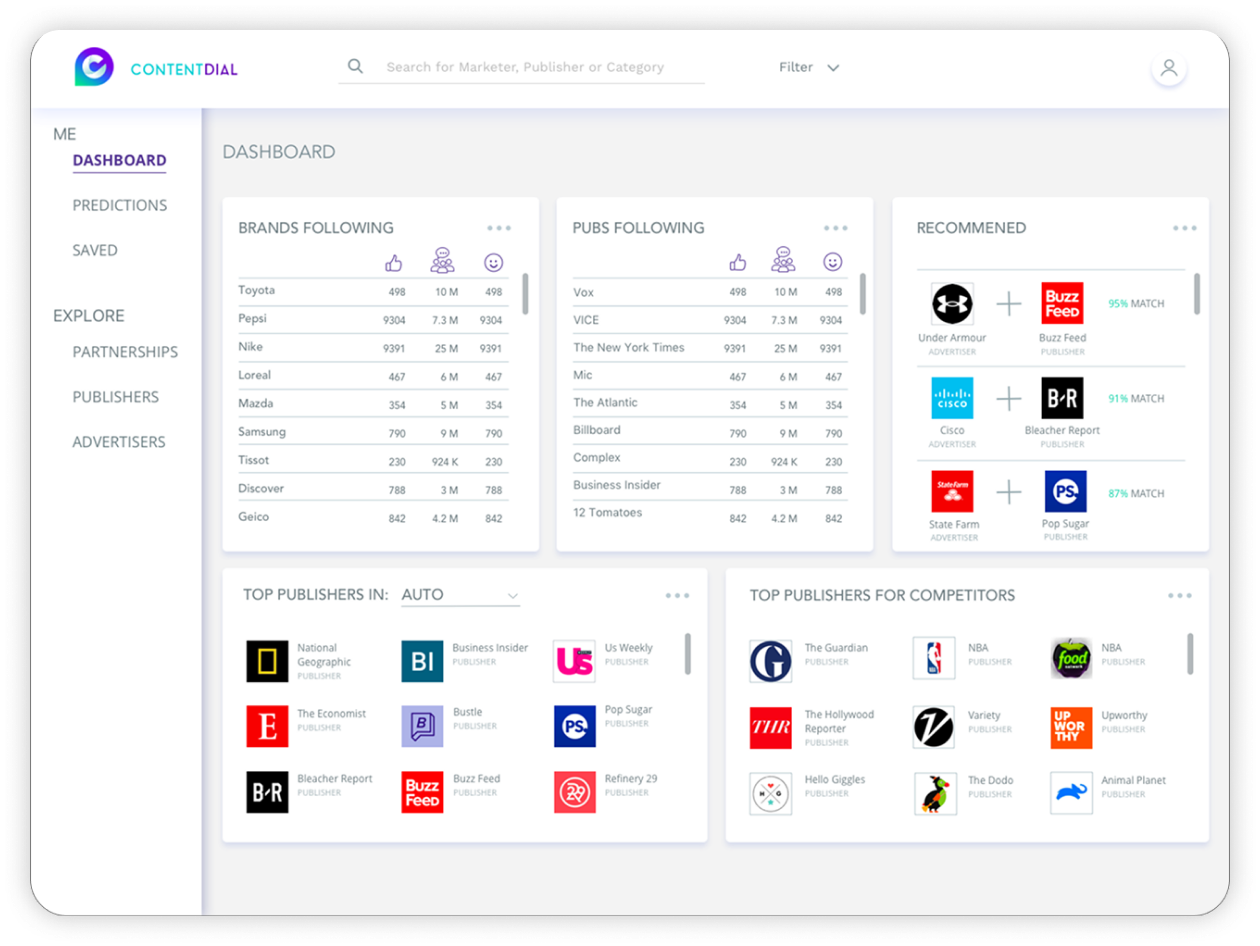
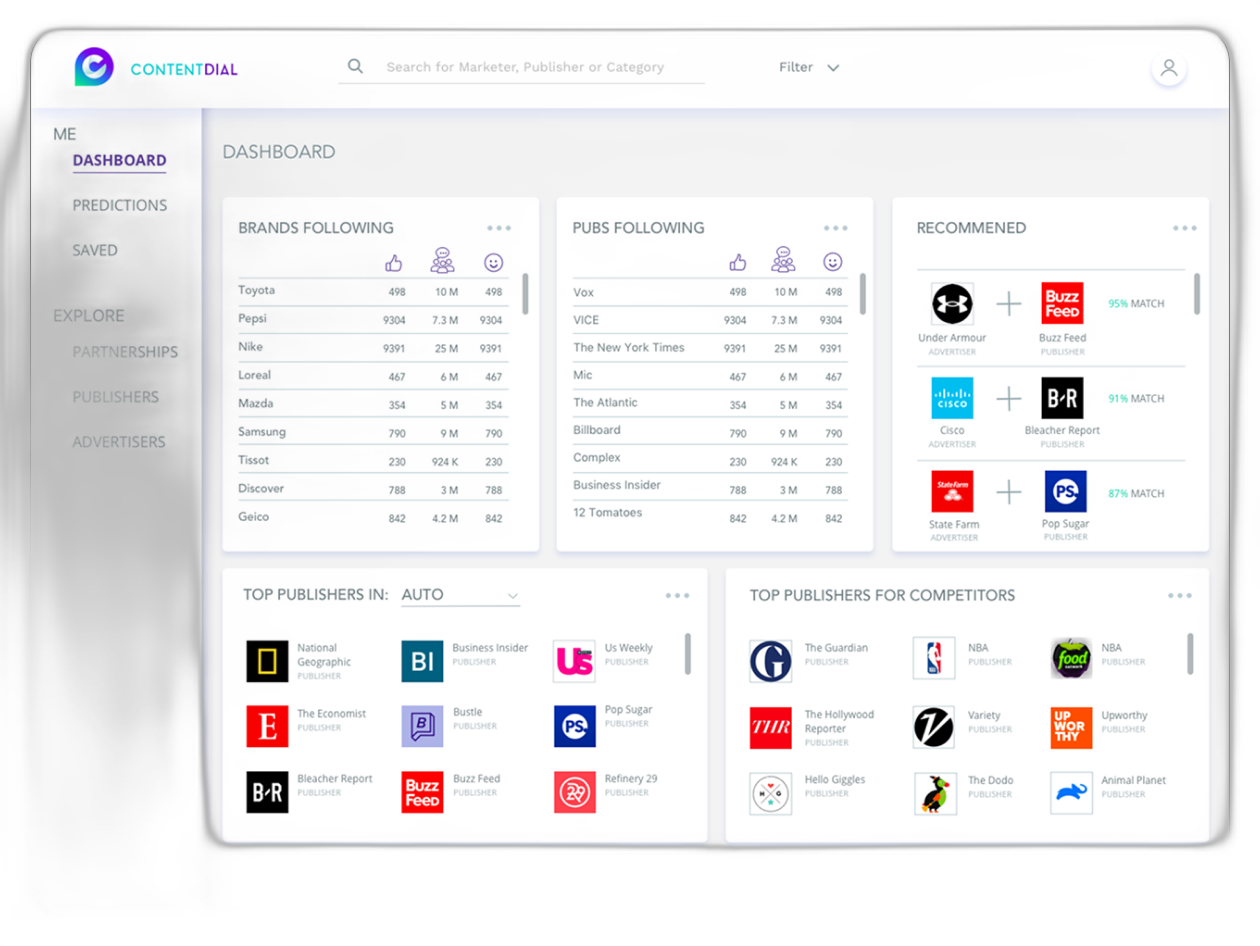
Fix ContentDial image cropping and double backgrounds
- Research image: remove fixed aspect ratio so full image shows without top crop
- Strategy image: remove fixed aspect ratio so Before/After diagram isn't side-cropped
- Key Solutions screens: strip Figma white backgrounds via rembg, switch wrapper
  divs to drop-shadow on img elements to eliminate double background effect

Changed region(s): [[0.0, 0.0307, 0.9905, 0.981], [0.4333, 0.0307, 0.4952, 0.0613], [0.031, 0.0307, 0.0619, 0.0613]]

diff --git a/src/app/contentdial/page.tsx b/src/app/contentdial/page.tsx
@@ -228,10 +228,8 @@ export default function ContentDial() {
             </InsightCard>
           </div>
           {/* Research image */}
-          <div className="w-full rounded-[10px] md:rounded-[30px] overflow-hidden" style={{ aspectRatio: "1175/701" }}>
-            {/* eslint-disable-next-line @next/next/no-img-element */}
-            <img src={imgResearch} alt="Research findings" className="w-full h-full object-cover" />
-          </div>
+          {/* eslint-disable-next-line @next/next/no-img-element */}
+          <img src={imgResearch} alt="Research findings" className="w-full h-auto block rounded-[10px] md:rounded-[30px]" />
         </section>
 
         {/* Strategy & Approach */}
@@ -254,10 +252,8 @@ export default function ContentDial() {
             <NumberedItem n="04">Reduce friction between advertisers and publishers</NumberedItem>
           </div>
           {/* Strategy image */}
-          <div className="w-full rounded-[20px] overflow-hidden border border-[#a3a3a3]" style={{ aspectRatio: "777/532" }}>
-            {/* eslint-disable-next-line @next/next/no-img-element */}
-            <img src={imgStrategy} alt="Strategy diagram" className="w-full h-full object-cover" />
-          </div>
+          {/* eslint-disable-next-line @next/next/no-img-element */}
+          <img src={imgStrategy} alt="Strategy diagram" className="w-full h-auto block rounded-[20px] border border-[#a3a3a3]" />
         </section>
 
         {/* Key Solutions */}
@@ -285,22 +281,14 @@ export default function ContentDial() {
           </div>
           {/* Screen shots */}
           <div className="flex flex-col gap-8">
-            <div className="w-full rounded-[10px] md:rounded-[30px] overflow-hidden" style={{ aspectRatio: "1200/886", boxShadow: "0 0 30px rgba(0,0,0,0.25)" }}>
-              {/* eslint-disable-next-line @next/next/no-img-element */}
-              <img src={imgScreen1} alt="ContentDial screen 1" className="w-full h-full object-cover" />
-            </div>
-            <div className="w-full rounded-[10px] md:rounded-[30px] overflow-hidden" style={{ aspectRatio: "1200/895", boxShadow: "0 0 30px rgba(0,0,0,0.25)" }}>
-              {/* eslint-disable-next-line @next/next/no-img-element */}
-              <img src={imgScreen2} alt="ContentDial screen 2" className="w-full h-full object-cover" />
-            </div>
-            <div className="w-full rounded-[10px] md:rounded-[30px] overflow-hidden" style={{ aspectRatio: "1200/1434", boxShadow: "0 0 30px rgba(0,0,0,0.25)" }}>
-              {/* eslint-disable-next-line @next/next/no-img-element */}
-              <img src={imgScreen3} alt="ContentDial screen 3" className="w-full h-full object-cover" />
-            </div>
-            <div className="w-full rounded-[10px] md:rounded-[30px] overflow-hidden" style={{ aspectRatio: "1200/1434", boxShadow: "0 0 30px rgba(0,0,0,0.25)" }}>
-              {/* eslint-disable-next-line @next/next/no-img-element */}
-              <img src={imgScreen4} alt="ContentDial screen 4" className="w-full h-full object-cover" />
-            </div>
+            {/* eslint-disable-next-line @next/next/no-img-element */}
+            <img src={imgScreen1} alt="ContentDial screen 1" className="w-full h-auto block" style={{ filter: "drop-shadow(0 0 24px rgba(0,0,0,0.22))" }} />
+            {/* eslint-disable-next-line @next/next/no-img-element */}
+            <img src={imgScreen2} alt="ContentDial screen 2" className="w-full h-auto block" style={{ filter: "drop-shadow(0 0 24px rgba(0,0,0,0.22))" }} />
+            {/* eslint-disable-next-line @next/next/no-img-element */}
+            <img src={imgScreen3} alt="ContentDial screen 3" className="w-full h-auto block" style={{ filter: "drop-shadow(0 0 24px rgba(0,0,0,0.22))" }} />
+            {/* eslint-disable-next-line @next/next/no-img-element */}
+            <img src={imgScreen4} alt="ContentDial screen 4" className="w-full h-auto block" style={{ filter: "drop-shadow(0 0 24px rgba(0,0,0,0.22))" }} />
           </div>
         </section>
 
